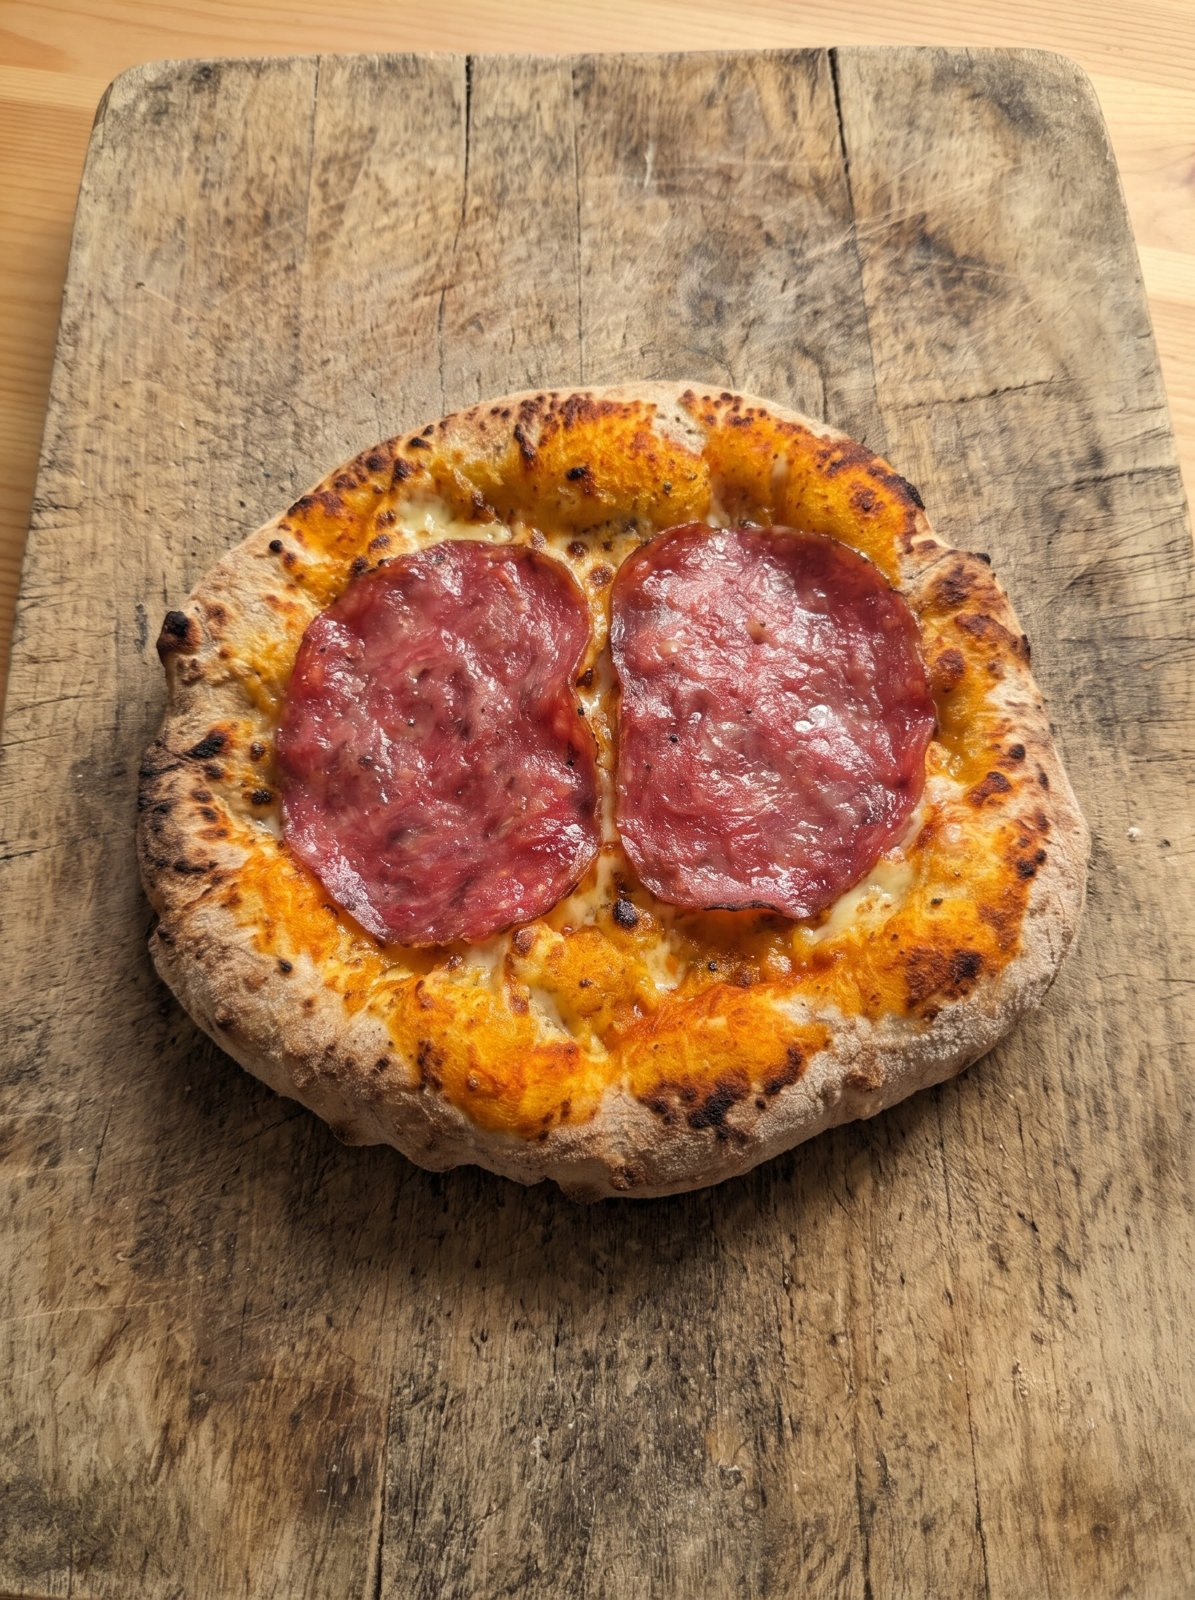
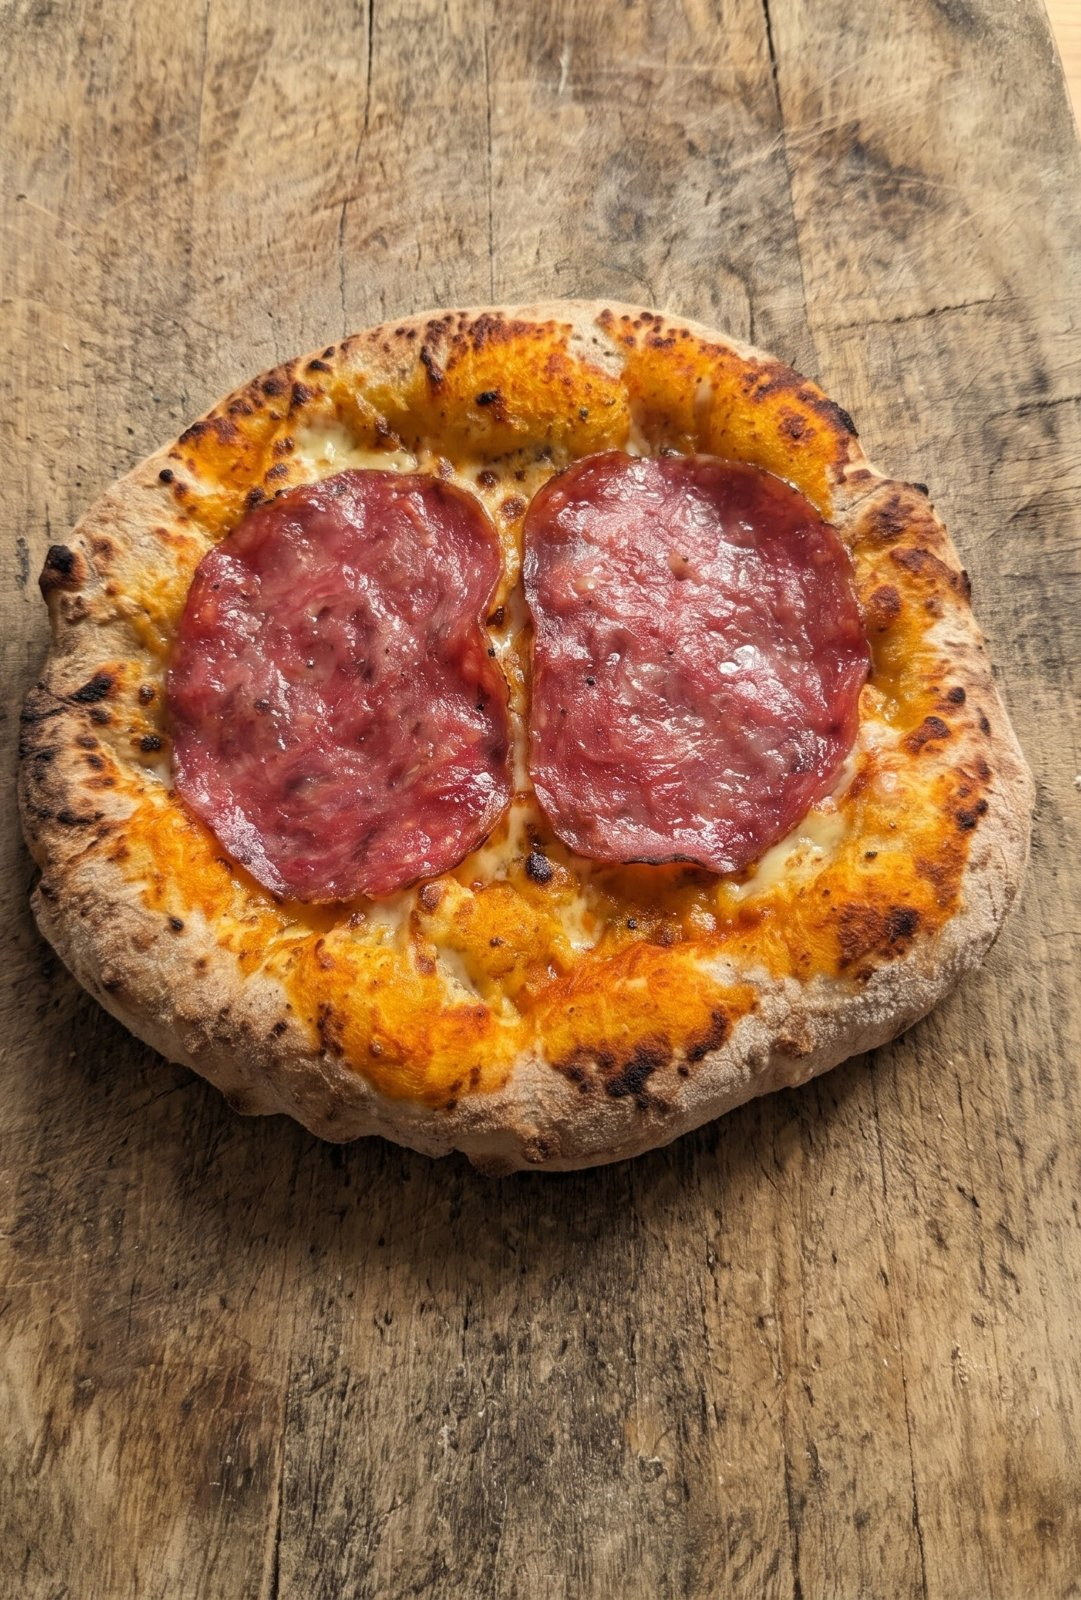
Pizza Rummo: fotos recortadas a la tabla y sin aviso de fondo retocado
Claude-Session: https://claude.ai/code/session_01UoATwJXXA6ZABAnMAv8Hkv

diff --git a/content/mil-panes/harina-sin-gluten-pizza-rummo.md b/content/mil-panes/harina-sin-gluten-pizza-rummo.md
@@ -28,7 +28,7 @@ Empecé a las tres de la tarde con 100 g de harina, 100 g de agua y 1 g de levad
 
 Agua no le faltó. La masa estuvo muy hidratada todo el rato, tanto que parecía puré.
 
-{{< foto src="fotos/pizza-rummo-masa.jpg" alt="Bola de masa sin gluten de color crema, con pequeñas motas oscuras y una grieta en la parte de arriba, sobre una tabla de madera espolvoreada de harina." pie="La bola de masa antes de estirarla, ya con alguna grieta. El fondo está retocado con IA; la masa es la mía." >}}
+{{< foto src="fotos/pizza-rummo-masa.jpg" alt="Bola de masa sin gluten de color crema, con pequeñas motas oscuras y una grieta en la parte de arriba, sobre una tabla de madera espolvoreada de harina." pie="La bola de masa antes de estirarla, ya con alguna grieta." >}}
 
 Subió hasta las ocho de la tarde, unas cinco horas. La estiré, le puse tomate, queso y embutido, y al horno.
 
@@ -52,7 +52,7 @@ Lo que creo, sin poder asegurarlo, es que buena parte de esto viene de lo que ll
 
 De las que he probado, la Caputo Fioreglut. Es la que uso para los [panecillos sin gluten](/mil-panes/panecillos-sin-gluten-caputo/), los [dónuts](/mil-panes/donuts-sin-gluten-caputo/) y el [panettone de chocolate](/mil-panes/panettone-chocolate-sin-gluten/), y con ella la pizza me sale más fina, con el borde crujiente y la miga con alveolos.
 
-{{< foto src="fotos/pizza-caputo.jpg" alt="Pizza sin gluten pequeña con tomate, queso y dos lonchas grandes de embutido, con el borde hinchado y lleno de manchas tostadas, sobre una tabla de madera." pie="Una pizza que hice hace tiempo con la Caputo: el borde se hincha y se tuesta a manchas. El fondo está retocado con IA." >}}
+{{< foto src="fotos/pizza-caputo.jpg" alt="Pizza sin gluten pequeña con tomate, queso y dos lonchas grandes de embutido, con el borde hinchado y lleno de manchas tostadas, sobre una tabla de madera." pie="Una pizza que hice hace tiempo con la Caputo: el borde se hincha y se tuesta a manchas." >}}
 
 Eso sí, la Caputo lleva almidón de trigo sin gluten: vale para celíacos, pero no para alérgicos al trigo. En la lista de ingredientes de la Rummo no aparece el trigo.
 
